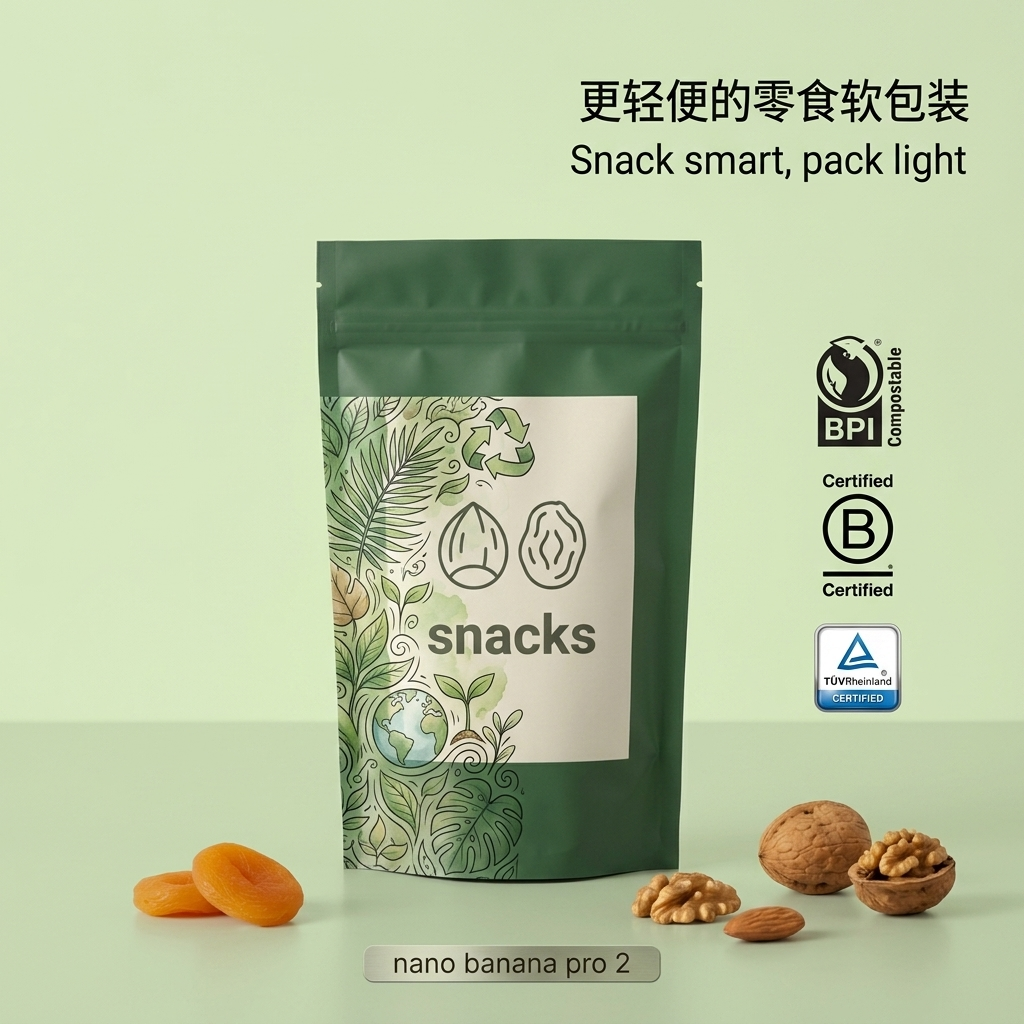
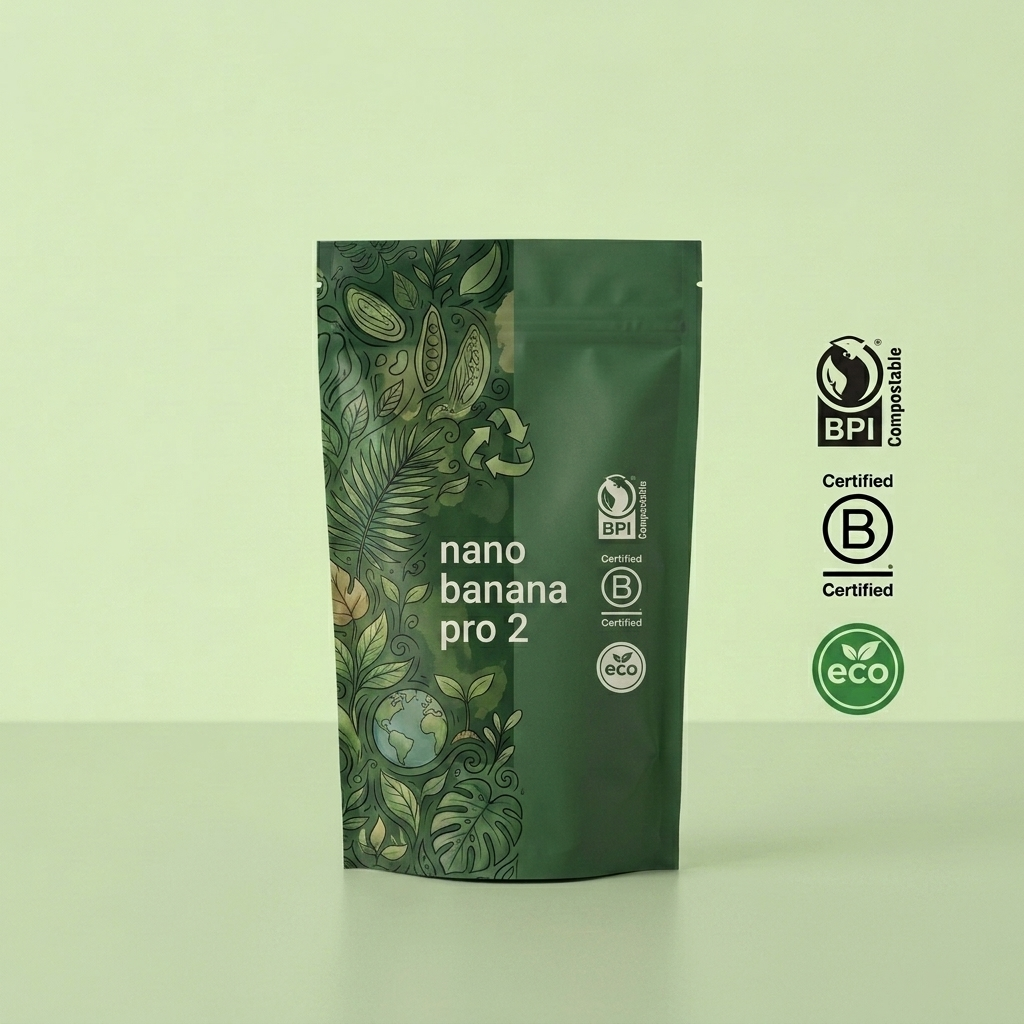
chore: Soro Autopilot automated SEO/GEO sweeps [unified cron HKT]

diff --git a/src/store/productData.ts b/src/store/productData.ts
@@ -688,7 +688,7 @@ const ECO_DIGITAL_PRODUCTS: EcoDigitalProduct[] = [
     shortDesc: 'From US$100 for 1,000 pcs',
     features: ['Eco Materials', '30% Lower Carbon', 'Digital Print', 'Sustainable'],
     images: [
-      '/imgs/store/products/eco-3side-premium.png?v=2',
+      '/imgs/store/products/eco-3side-premium.png?v=3',
       '/imgs/store/eco-digital/0eQiBArdHVo_uyy12vmVid9Vc-hB8Msln4h0Oddu4dQ=.webp',
       '/imgs/store/eco-digital/1k3ig0ezuHcds_30mxxPOgFL-qeSwHc8uuzElo2-GP4=.webp',
       '/imgs/store/pouch shape/3-side.webp'
@@ -723,7 +723,7 @@ const ECO_DIGITAL_PRODUCTS: EcoDigitalProduct[] = [
     shortDesc: 'From US$100 for 1,000 pcs',
     features: ['Eco Materials', 'Center Seal', 'Digital Print', 'Sustainable'],
     images: [
-      '/imgs/store/products/eco-centerseal-premium.png?v=2',
+      '/imgs/store/products/eco-centerseal-premium.png?v=3',
       '/imgs/store/eco-digital/7CWxuO-mB4GevbYtCFnSFfzuCLECtUQ8AjuleiT4vAk=.webp',
       '/imgs/store/eco-digital/AvEbY4SX8gwP2SzENbSen8dnT_kTrrk8VN6siqp1B2I=.webp',
       '/imgs/store/pouch shape/center.webp'
@@ -758,7 +758,7 @@ const ECO_DIGITAL_PRODUCTS: EcoDigitalProduct[] = [
     shortDesc: 'From US$120 for 1,000 pcs',
     features: ['Eco Materials', 'Stand Up', 'Digital Print', 'Premium'],
     images: [
-      '/imgs/store/products/eco-standup-premium.png?v=2',
+      '/imgs/store/products/eco-standup-premium.png?v=3',
       '/imgs/store/eco-digital/D_Ec0HTDnnSvukUxwY-fJNRDhAjAWxtRnjMmkr63vlk=.webp',
       '/imgs/store/eco-digital/LQ5WGOrIkQPzbXSfWupAIFvVrlyL9lvZoMKc35bbHPw=.webp',
       '/imgs/store/eco-digital/MPRxOw-bWF57OrAxie9J1CXjpM4HKHUUkoMKHeflN6E=.webp',
@@ -794,7 +794,7 @@ const ECO_DIGITAL_PRODUCTS: EcoDigitalProduct[] = [
     shortDesc: 'From US$170 for 1,000 pcs',
     features: ['Eco Materials', 'Box Bottom', 'High Capacity', 'Sustainable'],
     images: [
-      '/imgs/store/products/eco-boxbottom-premium.png?v=2',
+      '/imgs/store/products/eco-boxbottom-premium.png?v=3',
       '/imgs/store/eco-digital/TKAqlW4KL2xV9glNA91iuD_sYEvp2G29eWT4819Ne1g=.webp',
       '/imgs/store/eco-digital/X5RkmCe76z3hyMvMr6Yvb5RjclkrdDjh2rNvGIRqgWU=.webp',
       '/imgs/store/pouch shape/box.webp'
@@ -829,7 +829,7 @@ const ECO_DIGITAL_PRODUCTS: EcoDigitalProduct[] = [
     shortDesc: 'From US$190 for 1,000 pcs',
     features: ['Eco Materials', 'Flat Bottom', 'Premium Design', 'Sustainable'],
     images: [
-      '/imgs/store/products/eco-flatbottom-premium.png?v=2',
+      '/imgs/store/products/eco-flatbottom-premium.png?v=3',
       '/imgs/store/eco-digital/YoIBVbbSdfCfRc5654ldAbT_L3N5rKcJk__lYon7YmU=.webp',
       '/imgs/store/eco-digital/bUr_Wdvkcyq2aH95-oFtusPsS5YMJ2jZ6tjm74mHEr4=.webp',
       '/imgs/store/eco-digital/ghEYoZQN4q_bq5SzDz94a_q95YbMZS933hJEnuImpmc=.webp',
@@ -865,7 +865,7 @@ const ECO_DIGITAL_PRODUCTS: EcoDigitalProduct[] = [
     shortDesc: 'From US$160 for 1,000 pcs',
     features: ['Eco Materials', 'Quad Seal', 'High Stability', 'Sustainable'],
     images: [
-      '/imgs/store/products/eco-quadseal-premium.png?v=2',
+      '/imgs/store/products/eco-quadseal-premium.png?v=3',
       '/imgs/store/eco-digital/hAGC60SxXYmSdiBTJD3XPhMZBocRVBXZyuV-dvt3r7c=.webp',
       '/imgs/store/eco-digital/os9CHhTSQoGASvA8lsfm-iHYfG4kddPoZP2wYMh47fs=.webp',
       '/imgs/store/eco-digital/vxuLNp13OWRZXhe-qkwn3UgHCWirk5TzBLhB7q8JJ30=.webp',
@@ -901,7 +901,7 @@ const ECO_DIGITAL_PRODUCTS: EcoDigitalProduct[] = [
     shortDesc: 'From US$140 for 1,000 pcs',
     features: ['Eco Materials', 'Side Gusset', 'Coffee Bag Style', 'Sustainable'],
     images: [
-      '/imgs/store/products/eco-sidegusset-premium.png?v=2',
+      '/imgs/store/products/eco-sidegusset-premium.png?v=3',
       '/imgs/store/eco-digital/wXqLssPqdR9J0iDhIyQ-NGTDDFm-3DgFKlyQD4ipsEw=.webp',
       '/imgs/store/eco-digital/zwwZAmSiOHouQPEkkT_Wwz5rhX13CtgkT8LqvNnoJ5w=.webp',
       '/imgs/store/pouch shape/side -seal.webp'